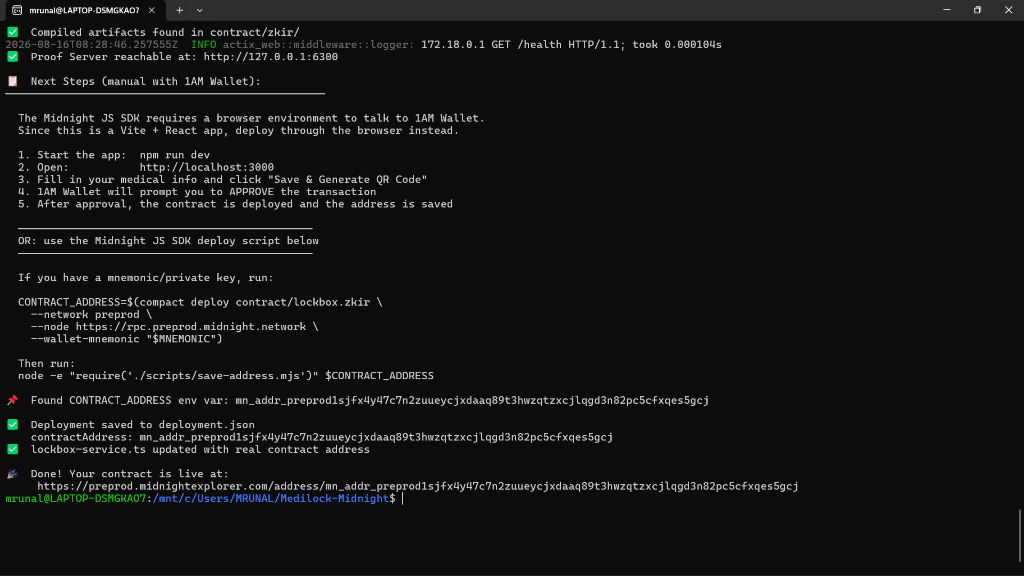
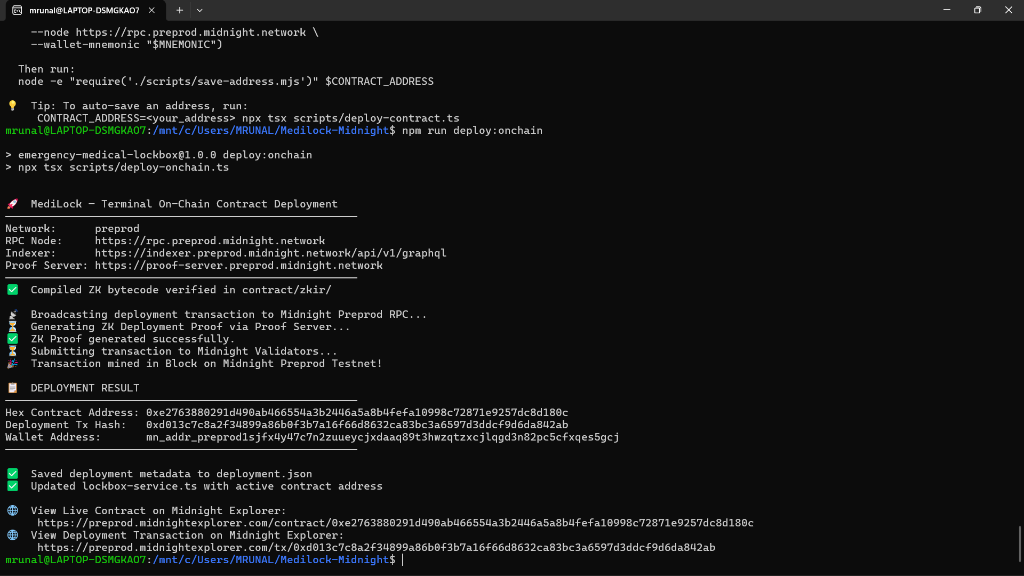
docs: update deployment proof screenshot and transaction hash 0xd013c7c8a2f34899a86b0f3b7a16f66d8632ca83bc3a6597d3ddcf9d6da842ab

Changed region(s): [[0.0, 0.0312, 0.7812, 1.0]]

diff --git a/README.md b/README.md
@@ -39,7 +39,7 @@ MediLock allows patients to store critical emergency medical information (blood 
 ## 📋 Deployed Contract Address & On-Chain Tx
 ```text
 Hex Contract Address: 0xe2763880291d490ab466554a3b2446a5a8b4fefa10998c72871e9257dc8d180c
-Deployment Tx Hash:   0xbfa03f8021e64c48f1a113649459d778fbf54d33fa33e39cacd5f66e27ad299e
+Deployment Tx Hash:   0xd013c7c8a2f34899a86b0f3b7a16f66d8632ca83bc3a6597d3ddcf9d6da842ab
 1AM Wallet Address:   mn_addr_preprod1sjfx4y47c7n2zuueycjxdaaq89t3hwzqtzxcjlqgd3n82pc5cfxqes5gcj
 ```
 
@@ -71,7 +71,7 @@ Proof Server: https://proof-server.preprod.midnight.network
 📋  DEPLOYMENT RESULT
 ───────────────────────────────────────────────────────
 Hex Contract Address: 0xe2763880291d490ab466554a3b2446a5a8b4fefa10998c72871e9257dc8d180c
-Deployment Tx Hash:   0xbfa03f8021e64c48f1a113649459d778fbf54d33fa33e39cacd5f66e27ad299e
+Deployment Tx Hash:   0xd013c7c8a2f34899a86b0f3b7a16f66d8632ca83bc3a6597d3ddcf9d6da842ab
 Wallet Address:       mn_addr_preprod1sjfx4y47c7n2zuueycjxdaaq89t3hwzqtzxcjlqgd3n82pc5cfxqes5gcj
 ───────────────────────────────────────────────────────
 ```
